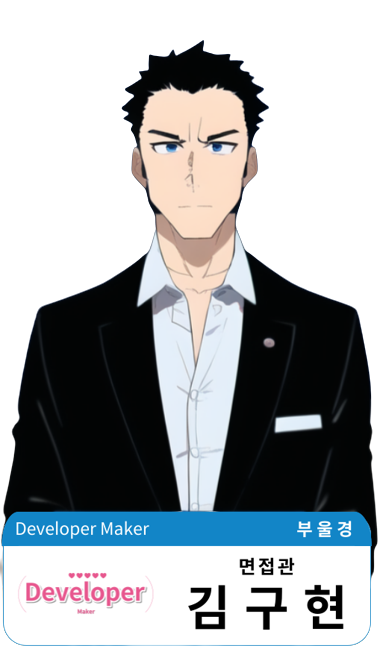
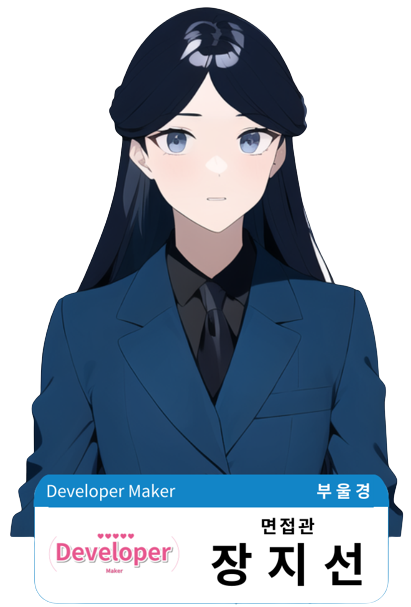
Feat: Interview LayOut################
-인터뷰 레이아웃################

diff --git a/front/src/pages/Interview/Interview.css b/front/src/pages/Interview/Interview.css
@@ -41,37 +41,58 @@
   transition: 0.2s;
 }
 
-.interviewInterviewerImg {
-  position: absolute;
-  left: 25vw;
-  top: 10vh;
-  width: 50vw;
-  height: 60vh;
-}
 .Interviewer1 {
   position: absolute;
-  left: 2vw;
+  top: 15vh;
+  left: 20vw;
+  width: 20vw;
+  height: 45vh;
+  filter: drop-shadow(6px 4px 4px #c3c3c3);
 }
-
-
+.Interviewer2 {
+  position: absolute;
+  top: 15vh;
+  left: 45vw;
+  width: 20vw;
+  height: 45vh;
+  filter: drop-shadow(6px 4px 4px #c3c3c3);
+}
+.Interviewer3 {
+  position: absolute;
+  top: 15vh;
+  left: 70vw;
+  width: 20vw;
+  height: 45vh;
+  filter: drop-shadow(6px 4px 4px #c3c3c3);
+}
+.InterviewerNoSpeach {
+  opacity: 0.8;
+}
 
 .interviewScriptBack {
   position: absolute;
-  left: 2vw;
-  bottom: 3vh;
+  left: 10vw;
+  bottom: 4vh;
   width: 60vw;
-  height: 40vh;
-  background-color: beige;
-  border-radius: 5px;
+  height: min(25vw * 0.75, 400px);
+  background-color: white;
+  border-radius: 65px;
   filter: drop-shadow(6px 4px 4px #c3c3c3);
+  /* border: 20px solid transparent;
+  border-image: url('../../asset/images/Interview/ChatStructure.png') 30; */
 }
-.interviewScriptContent {
-  position: absolute;
-  top: 5vh;
-  left: 1vw;
-  width: 38vw;
-  height: 70vh;
+
+.InterviewerName {
+  margin-left: 2vw;
+  margin-top: 2vh;
   font-size: 3vw;
+}
+.InterviewContent {
+  margin-left: 1vw;
+  font-size: 1.5vw;
+  margin-top: 1vh;
+  width: 58vw;
+  height: 25vh;
 }
 .interviewScriptNextBtn{
   position: absolute;
@@ -87,16 +108,15 @@
 /* 100(가로): 75(세로) */
 .interviewWebCam {
   position: absolute;
-  width: 25vw;
+  width: min(25vw, 400px);
   right: 2vw;
-  bottom: 3vh;
+  bottom: 4vh;
   padding: 10;
   border-radius: 5px;
   filter: drop-shadow(6px 4px 4px #c3c3c3);
   border: 3px double navy;
   /* url이미지, slice 순서는 top right bottom */
 }
-
 
 .interviewCaptureImg {
   position: absolute;

diff --git a/front/src/slices/userSlice.js b/front/src/slices/userSlice.js
@@ -94,7 +94,6 @@ export const userLogout = createAsyncThunk(
     try {
       const {data} = await logout()
       console.log('로그아웃 결과',data)
-      return data.data
     } catch(error) {
       if (error.response && error.response.data.message) {
         return rejectWithValue(error.response.data.message);
@@ -186,13 +185,24 @@ const userSlice = createSlice(
         state.progress.album = payload
       })
       .addCase(userLogout.fulfilled, (state, {payload})=> {
-        state = initialState
-        sessionStorage.clear();
-        window.location.reload()
+        // state 초기화
+        state.userInfo = null;
+        state.isLogIn = false;
+        state.error = null;
+        state.progress = {study: {algorithm:0,backend:0,cs:0, frontend:0, language:0}, album: {} };
+        sessionStorage.removeItem('accessToken', '');
+        // 페이지 새로고침 필요x
+        // window.location.reload()
       })
       .addCase(DeleteUser.fulfilled, (state, {payload})=> {
-        state = initialState
-        sessionStorage.clear();
+        // state 초기화
+        state.userInfo = null;
+        state.isLogIn = false;
+        state.error = null;
+        state.progress = {study: {algorithm:0,backend:0,cs:0, frontend:0, language:0}, album: {} };
+        // 세션의 토큰 초기화
+        sessionStorage.removeItem('accessToken', '');
+        // 메인페이지로 이동
         const navigate = useNavigate()
         navigate('/')
       })

diff --git a/front/src/pages/Interview/Interview.js b/front/src/pages/Interview/Interview.js
@@ -22,6 +22,7 @@ const videoConstraints = {
 const Interview = () => {
   const [now, setNow] = useState(0)
   const navigate = useNavigate()
+  const [faceCheck, setFaceCheck] = useState(false)
 
   const interviewScript = ['얼굴인식을 진행하도록 하겠습니다. 사용자의 얼굴을 화면 중앙에 맞춘 후 확인을 눌러주세요',
  'HTTP Mehthod의 종류와 그 내용에 대해 설명해 보세요.',
@@ -97,7 +98,11 @@ const Interview = () => {
       <img className="Interviewer2" src={Interviewer2} alt="Interviewer2" />
       <img className="Interviewer3" src={Interviewer3} alt="Interviewer3" />
       <div className="interviewScriptBack">
-
+        <p className="InterviewerName">『누군가의 발언』</p>
+        <p className="InterviewContent">질문 내용</p>
+        <div>
+          <p>버튼모음</p>
+        </div>
       </div>
       <Webcam
         className="interviewWebCam"
@@ -107,6 +112,7 @@ const Interview = () => {
         screenshotQuality={1}
       />
       <img id="captureDiv" className="interviewCaptureImg" src={imageSrc} alt="ㅋㅋ"></img>
+      {!faceCheck}
     </div>
   );
 };

diff --git a/front/src/components/Main/GameButtonsArea.js b/front/src/components/Main/GameButtonsArea.js
@@ -1,6 +1,6 @@
 import React, { useState } from "react";
 import Styled from "styled-components";
-
+import sessionStorage from "redux-persist/es/storage/session";
 import GameRuleImg from "../../asset/images/Main/GameRuleBtn.png";
 import GameStartImg from "../../asset/images/Main/GameStartBtn.png";
 import LogoutBtnImg from "../../asset/images/Main/LogoutBtn.png";
@@ -116,7 +116,8 @@ const GameButtonsArea = () => {
             <GameBtn src={AlbumBtnImg} alt="Album" onClick={goAlbum} />
           </BtnArea>
           <BtnArea>
-            <GameBtn src={LogoutBtnImg} alt="Logout" onClick={() => {dispatch(userLogout())}}/>
+            <GameBtn src={LogoutBtnImg} alt="Logout" onClick={() => {dispatch(userLogout())
+            sessionStorage.clear();}}/>
           </BtnArea>
         </LoginGameButtons>
       ) : (

diff --git a/front/src/components/Profile/UserInfo.js b/front/src/components/Profile/UserInfo.js
@@ -68,7 +68,7 @@ const UserInfo = () => {
           </option>
         ))}
       </select> }
-      <p className='ProfileUserInfoData'>{UserInfo.email.slice(0, UserInfo.email.length - 6)}</p>
+      {/* <p className='ProfileUserInfoData'>{UserInfo.email.slice(0, UserInfo.email.length - 6)}</p> */}
       <button className='btn btn-danger ProfileUserInfoBtn' onClick={()=>{
         if (mode) {changeMode()}  else {reset(); changeMode(); }}}>{mode? "정보수정": "취소"}</button>
       {!mode && <button className='btn btn-danger ProfileUserInfoBtn' onClick={()=> {putUserInfo(nickname, language)}} >수정</button>}
